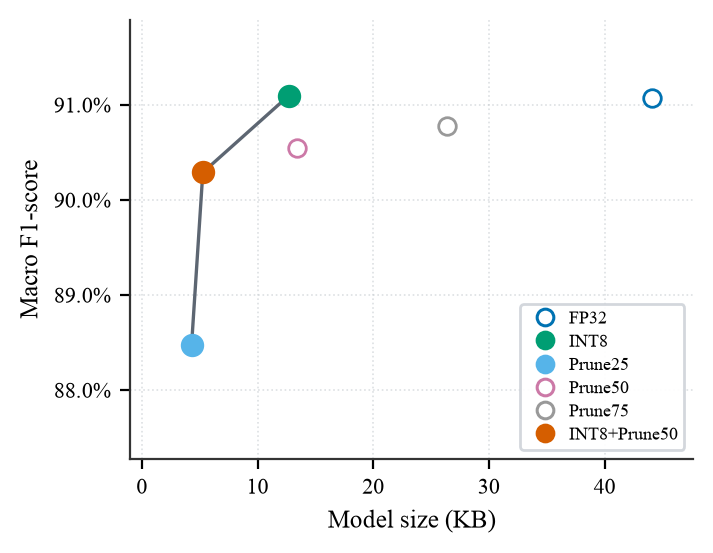
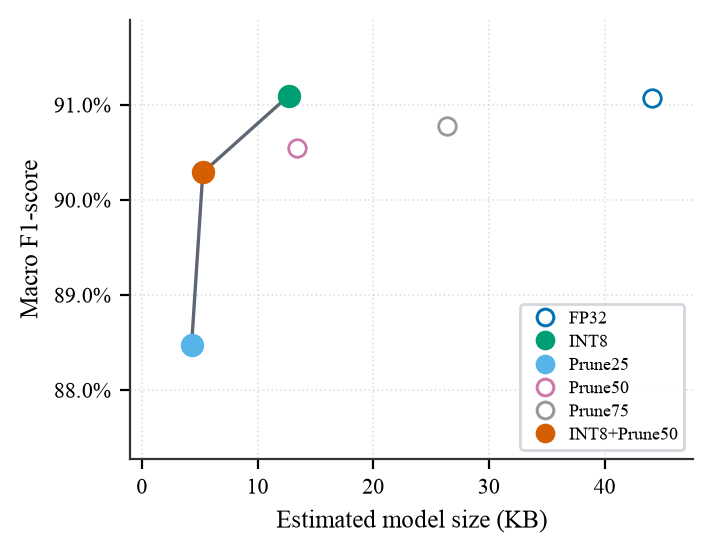
Fix broken $\pm$ macro, reconcile estimated vs. measured model sizes, and tighten stats reporting.
The $\pm$ formatting bug in export_kfold_compression_tex.py (single unmatched $ per
value) made paper/main.tex fail to compile with a fatal "Missing $ inserted" error;
paper/main.pdf was stale relative to the tracked .tex sources. Also reconciles the
PyTorch-side estimated payload sizes (Table II, Fig. 2) against the measured TFLite
footprint (Table IV) wherever both are cited, fixes a self-contradictory real-time
latency claim in Sec. IV-E, clarifies that Prune25/50/75 names denote % channels
retained (Prune25 is most aggressive), and documents Holm-Bonferroni correction and
the N=15 Wilcoxon p-floor in Limitations (no reported conclusion changes).

Changed region(s): [[0.3703, 0.9222, 0.7714, 0.953]]

diff --git a/paper/main.tex b/paper/main.tex
@@ -312,7 +312,9 @@ post-training quantization.
 convolutional blocks; the top-$k$ channels are retained and removed elsewhere in the stem and
 classification head. The pruned model is fine-tuned on \emph{training subjects only} (Adam,
 learning rate $10^{-4}$, class-balanced loss) before re-evaluation. Primary k-fold configs sweep
-25\%, 50\%, and 75\% channel retention (Prune25/50/75) with a default 5-epoch fine-tune budget;
+25\%, 50\%, and 75\% channel retention (Prune25/50/75; Prune25 \emph{retains} 25\% and is thus
+the most aggressive setting, Prune75 the mildest) with a
+default 5-epoch fine-tune budget;
 Table~\ref{tab:finetune-ablation} reports the same protocol at $N{=}15$.
 
 \textbf{Extended compression grid (k-fold).} Beyond FP32/INT8 and Prune25/50/75, combined
@@ -406,21 +408,23 @@ are at most 0.03~pp (PSw: $82.75\%$ vs.\ $82.72\%$), confirming that 8-bit weigh
 sufficient for this TCN under the PyTorch QDQ proxy.
 
 \textbf{Pruning severity trades size for accuracy in a monotonic pattern.}
-Prune25 (${\sim}4.3$~KB) reduces macro F1 by 3.25~pp ($87.62\%\pm1.45\%$, $p{<}0.001$), with the
-largest phase-specific loss in LR ($-$6.98~pp) and PSw ($-$3.75~pp).
-Prune50 (${\sim}13.1$~KB) costs 1.47~pp ($89.40\%\pm1.43\%$, $p{<}0.001$).
-Prune75 (${\sim}26.4$~KB) costs 0.70~pp ($90.17\%\pm1.30\%$, $p{<}0.001$).
+Prune25 (${\sim}4.3$~KB estimated payload) reduces macro F1 by 3.25~pp ($87.62\%\pm1.45\%$,
+$p{<}0.001$), with the largest phase-specific loss in LR ($-$6.98~pp) and PSw ($-$3.75~pp).
+Prune50 (${\sim}13.1$~KB estimated payload) costs 1.47~pp ($89.40\%\pm1.43\%$, $p{<}0.001$).
+Prune75 (${\sim}26.4$~KB estimated payload) costs 0.70~pp ($90.17\%\pm1.30\%$, $p{<}0.001$).
 All pruned configs remain significantly below FP32 at $\alpha{=}0.05$, but the effect size shrinks
 as more channels are retained.
 
 \textbf{Combined INT8+Prune50 minimizes size at a measurable accuracy cost.}
-INT8+Prune50 (${\sim}5.3$~KB, smallest ESP32-deployable point) achieves
-$89.33\%\pm1.36\%$ macro F1 ($-$1.54~pp, $p{=}1.2{\times}10^{-4}$), with PSw F1 falling to
-$80.93\%\pm2.00\%$ ($-$1.79~pp).
+INT8+Prune50 achieves $89.33\%\pm1.36\%$ macro F1 ($-$1.54~pp, $p{=}1.2{\times}10^{-4}$), with PSw
+F1 falling to $80.93\%\pm2.00\%$ ($-$1.79~pp). Its estimated payload is ${\sim}5.3$~KB
+(measured TFLite: 13.4~KB, Table~\ref{tab:esp32}; the ${\sim}8$~KB gap is fixed TFLite
+graph overhead common to every config)---still the smallest of the four deployed configs.
 
-Fig.~\ref{fig:pareto} and the preceding table summarize the extended grid; among non-dominated
-configurations, INT8 offers the best accuracy--size trade-off, while INT8+Prune50 targets minimum
-memory when a ${\sim}1.5$~pp macro F1 reduction is acceptable.
+Fig.~\ref{fig:pareto} (estimated payload; see Table~\ref{tab:esp32} for measured TFLite sizes)
+and the preceding table summarize the extended grid. Among non-dominated configurations, INT8
+offers the best accuracy--size trade-off, while INT8+Prune50 targets minimum memory when a
+${\sim}1.5$~pp macro F1 reduction is acceptable.
 
 \subsection{Fine-Tuning Schedule Ablation}
 
@@ -448,11 +452,13 @@ smallest footprint at the largest accuracy cost.
 \begin{figure}[!t]
   \centering
   \includegraphics[width=\linewidth]{figures/pareto_front.pdf}
-  \caption{Illustrative Pareto front (fold~0, seed~42; six compression configs).
+  \caption{Illustrative Pareto front (fold~0, seed~42; six compression configs). Horizontal axis
+  is \emph{estimated} payload size, not the measured TFLite footprint (Table~\ref{tab:esp32}).
   K-fold aggregates with Wilcoxon tests appear in Table~\ref{tab:kfold-compression}.
   Frontier: Prune25 $\rightarrow$ INT8+Prune50 $\rightarrow$ INT8;
   Prune50/Prune75/FP32 are dominated at this checkpoint. INT8 and Prune50 share ${\sim}13$~KB
-  but differ by 0.55~pp macro F1 (labels dodged for visibility).}
+  estimated payload but differ by 0.55~pp macro F1 (labels dodged for visibility). Prune25
+  \emph{retains} only 25\% of channels (most aggressive); Prune75 is mildest.}
   \label{fig:pareto}
 \end{figure}
 
@@ -474,12 +480,12 @@ Table~\ref{tab:esp32} reports on-device latency for four TFLite exports derived 
 seed~42 compression checkpoints. Benchmarks replay one fixed normalized $(50,12)$ window in a tight
 loop ($N{=}1000$ trials after 20 warmup invocations) without live IMU or BLE I/O.
 
-INT8+Prune50 is the only configuration that meets a strict real-time budget for per-window inference
-($75.7$~ms mean vs.\ a 500~ms window). Full-width INT8 and float Prune50 remain within the window
-($\approx$280 and 253~ms) but offer no latency advantage over INT8+Prune50 despite similar or larger
-TFLite sizes. FP32 exceeds the window ($856$~ms) and requires a 160~KB tensor arena, reducing minimum
-free heap to 116~KB vs.\ 156~KB for the 120~KB-arena configs. Reported heap reflects remaining dynamic
-SRAM after reserving a fixed arena; model weights are stored in flash.
+Three of the four configurations meet the 500~ms per-window budget: INT8+Prune50 ($75.7$~ms,
+${\sim}425$~ms headroom), Prune50 ($253$~ms), and full-width INT8 ($279.8$~ms); only FP32 exceeds
+it ($856$~ms). INT8+Prune50 is fastest by a wide margin (3.7$\times$ faster than full-width INT8)
+despite similar or larger TFLite sizes for the other two. FP32 additionally requires a 160~KB
+tensor arena, reducing minimum free heap to 116~KB vs.\ 156~KB for the 120~KB-arena configs
+(remaining dynamic SRAM after reserving the arena; weights are stored in flash).
 
 \input{tables/esp32_placeholder}
 
@@ -518,10 +524,12 @@ affected.
 \subsection{Efficiency-Accuracy Trade-off}
 
 The k-fold Pareto analysis (Table~\ref{tab:kfold-compression} and Fig.~\ref{fig:pareto})
-identifies INT8 (${\sim}13.0$~KB, $+0.01$~pp macro F1, $p{=}0.30$) as the preferred
-near-lossless compression point for ESP32-C3 deployment. INT8+Prune50 (${\sim}5.3$~KB) trades
+identifies INT8 (${\sim}13.0$~KB estimated payload, $+0.01$~pp macro F1, $p{=}0.30$) as the
+preferred near-lossless compression point for ESP32-C3 deployment. INT8+Prune50
+(${\sim}5.3$~KB estimated payload; 13.4~KB measured TFLite, Table~\ref{tab:esp32}) trades
 1.54~pp macro F1 ($p{=}1.2{\times}10^{-4}$) for minimum memory. Prune75 offers a middle ground
-(${\sim}26.4$~KB, $-$0.70~pp) when pruning without quantization is desired. Deployment latency
+(${\sim}26.4$~KB estimated payload, $-$0.70~pp) when pruning without quantization is desired.
+Deployment latency
 must be paired with these accuracy/size \emph{and} latency trade-offs. Table~\ref{tab:esp32} shows
 that INT8+Prune50 is the Pareto-optimal deployable point on ESP32-C3 (13.4~KB TFLite, 75.7~ms
 latency, 156~KB minimum free heap). Full-width INT8 preserves accuracy but runs 3.7$\times$
@@ -539,7 +547,11 @@ stride-1 sliding-window inference at 100~Hz was not evaluated.
         end-to-end latency with live IMU/BLE streaming remains unmeasured.
   \item Test stride~1 yields highly overlapping windows; per-subject blocked aggregation mitigates
         inflated effective sample size, but Wilcoxon tests operate on fold$\times$seed aggregates
-        ($N{=}15$) rather than subject-blocked scores.
+        ($N{=}15$) rather than subject-blocked scores. These pairs are also not fully independent
+        (three seeds share the same five fold splits), and $N{=}15$ bounds the smallest attainable
+        signed-rank $p$ at $6.10\times10^{-5}$, attained simultaneously by several configs of
+        differing effect size. Holm--Bonferroni correction within each table does not change any
+        significance conclusion reported here.
   \item PyTorch INT8 evaluation uses a quantize-dequantize weight proxy; deployed INT8 TFLite models
         use full-integer PTQ and may differ slightly in logits while preserving argmax in smoke
         tests.
@@ -561,9 +573,9 @@ epochs: $-$1.47~pp, $p{<}0.001$; Prune75: $-$0.70~pp, $p{<}0.001$). Fine-tune sc
 revealed that 0.94~pp of the Prune50 deficit is recoverable with longer training (50 epochs:
 $90.34\%\pm1.11\%$, $p{=}0.015$ vs.\ FP32), implicating insufficient recovery budget---not pruning
 alone---as a contributor to early results; a residual 0.53~pp gap nonetheless persists. PSw F1 was
-the most compression-sensitive transition phase. INT8+Prune50 (${\sim}5.3$~KB) offers minimum
-memory at a 1.54~pp cost ($p{=}1.2{\times}10^{-4}$), with on-device ESP32-C3 latency of 75.7~ms
-per 0.5~s window. Future work will validate live IMU streaming, measure power, and extend
+the most compression-sensitive transition phase. INT8+Prune50 (13.4~KB measured TFLite footprint)
+offers minimum memory at a 1.54~pp cost ($p{=}1.2{\times}10^{-4}$), with on-device ESP32-C3
+latency of 75.7~ms per 0.5~s window. Future work will validate live IMU streaming, measure power, and extend
 evaluation to additional cohorts.
 
 % Acknowledgment omitted for double-anonymous review.

diff --git a/paper/tables/kfold_compression.tex b/paper/tables/kfold_compression.tex
@@ -11,15 +11,15 @@
     \toprule
     \textbf{Config} & \textbf{Macro F1} & \textbf{PSw F1} & \textbf{Wilcoxon $p$ vs.\ FP32} \\
     \midrule
-    FP32 & 90.87\,$\pm\,1.47 & 82.72\,$\pm\,2.54 & --- \\
-    INT8 & 90.88\,$\pm\,1.47 & 82.75\,$\pm\,2.54 & 0.303 \\
-    Prune25 & 87.62\,$\pm\,1.45 & 78.97\,$\pm\,1.28 & 6.10e-05 \\
-    Prune50 & 89.40\,$\pm\,1.43 & 81.13\,$\pm\,1.97 & 6.10e-05 \\
-    Prune75 & 90.17\,$\pm\,1.30 & 81.90\,$\pm\,2.18 & 6.10e-05 \\
-    INT8+Prune50 & 89.33\,$\pm\,1.36 & 80.93\,$\pm\,2.00 & 1.22e-04 \\
+    FP32 & 90.87\,$\pm$\,1.47 & 82.72\,$\pm$\,2.54 & --- \\
+    INT8 & 90.88\,$\pm$\,1.47 & 82.75\,$\pm$\,2.54 & 0.303 \\
+    Prune25 & 87.62\,$\pm$\,1.45 & 78.97\,$\pm$\,1.28 & 6.10e-05 \\
+    Prune50 & 89.40\,$\pm$\,1.43 & 81.13\,$\pm$\,1.97 & 6.10e-05 \\
+    Prune75 & 90.17\,$\pm$\,1.30 & 81.90\,$\pm$\,2.18 & 6.10e-05 \\
+    INT8+Prune50 & 89.33\,$\pm$\,1.36 & 80.93\,$\pm$\,2.00 & 1.22e-04 \\
     \bottomrule
   \end{tabular}
 
   \vspace{0.5em}
-  {\scriptsize Paired Wilcoxon signed-rank tests on matched fold$\times$seed pairs ($N{=}15$) vs.\ FP32. All configs complete (120/120 jobs).}
+  {\scriptsize Paired Wilcoxon signed-rank tests on matched fold$\times$seed pairs ($N{=}15$) vs.\ FP32. All configs complete (120/120 jobs). $p{=}6.10\mathrm{e}{-05}$ is the $N{=}15$ Wilcoxon floor (see Limitations). Config names denote \% channels retained; Prune25 is most aggressive, Prune75 mildest.}
 \end{table}

diff --git a/paper/tables/ablation_pareto.tex b/paper/tables/ablation_pareto.tex
@@ -10,11 +10,11 @@
     \toprule
     \textbf{Config} & \textbf{Params} & \textbf{KB} & \textbf{Macro F1} & \textbf{PSw F1} \\
     \midrule
-    INT8 & 11,300 & 13.0 & 90.88\,$\pm\,1.47 & 82.75\,$\pm\,2.54 \\
-    Prune25 & 1,100 & 4.3 & 87.62\,$\pm\,1.45 & 78.97\,$\pm\,1.28 \\
-    Prune50 & 3,348 & 13.1 & 89.40\,$\pm\,1.43 & 81.13\,$\pm\,1.97 \\
-    Prune75 & 6,748 & 26.4 & 90.17\,$\pm\,1.30 & 81.90\,$\pm\,2.18 \\
-    INT8+Prune50 & 3,348 & 5.3 & 89.33\,$\pm\,1.36 & 80.93\,$\pm\,2.00 \\
+    INT8 & 11,300 & 13.0 & 90.88\,$\pm$\,1.47 & 82.75\,$\pm$\,2.54 \\
+    Prune25 & 1,100 & 4.3 & 87.62\,$\pm$\,1.45 & 78.97\,$\pm$\,1.28 \\
+    Prune50 & 3,348 & 13.1 & 89.40\,$\pm$\,1.43 & 81.13\,$\pm$\,1.97 \\
+    Prune75 & 6,748 & 26.4 & 90.17\,$\pm$\,1.30 & 81.90\,$\pm$\,2.18 \\
+    INT8+Prune50 & 3,348 & 5.3 & 89.33\,$\pm$\,1.36 & 80.93\,$\pm$\,2.00 \\
     \bottomrule
   \end{tabular}
 \end{table}

diff --git a/analysis/export_kfold_compression_tex.py b/analysis/export_kfold_compression_tex.py
@@ -50,7 +50,7 @@ def fmt_mean_std(entry: dict | None, *, n_complete: int) -> str:
         return f"--- ({n_complete}/{EXPECTED_RUNS})"
     if std is None or math.isnan(std):
         return f"{mean * 100:.2f}"
-    return f"{mean * 100:.2f}\\,$\\pm\\,{std * 100:.2f}"
+    return f"{mean * 100:.2f}\\,$\\pm$\\,{std * 100:.2f}"
 
 
 def fmt_wilcoxon(entry: dict | None, *, n_complete: int) -> str:
@@ -124,7 +124,10 @@ def write_kfold_compression_table(
     if total_jobs >= TOTAL_JOBS:
         lines.append(
             f"  {{\\scriptsize Paired Wilcoxon signed-rank tests on matched fold$\\times$seed pairs "
-            f"($N{{=}}15$) vs.\\ FP32. All configs complete ({total_jobs}/{TOTAL_JOBS} jobs).}}"
+            f"($N{{=}}15$) vs.\\ FP32. All configs complete ({total_jobs}/{TOTAL_JOBS} jobs). "
+            f"$p{{=}}6.10\\mathrm{{e}}{{-05}}$ is the $N{{=}}15$ Wilcoxon floor (see Limitations). "
+            f"Config names denote \\% channels retained; Prune25 is most aggressive, Prune75 "
+            f"mildest.}}"
         )
     else:
         lines.append(

diff --git a/paper/tables/ablation_finetune.tex b/paper/tables/ablation_finetune.tex
@@ -10,9 +10,9 @@
     \toprule
     \textbf{Config} & \textbf{FT ep.} & \textbf{Macro F1} & \textbf{$\Delta$ vs.\ FP32} & \textbf{PSw F1} & \textbf{$p$} \\
     \midrule
-    Prune50 & 5 & 89.40\,$\pm\,1.43 & -1.47 & 81.13\,$\pm\,1.97 & 6.10e-05 \\
-    Prune50 (15 ep) & 15 & 89.83\,$\pm\,1.54 & -1.04 & 81.29\,$\pm\,2.79 & 6.10e-04 \\
-    Prune50 (50 ep) & 50 & 90.34\,$\pm\,1.11 & -0.53 & 82.23\,$\pm\,1.82 & 0.015 \\
+    Prune50 & 5 & 89.40\,$\pm$\,1.43 & -1.47 & 81.13\,$\pm$\,1.97 & 6.10e-05 \\
+    Prune50 (15 ep) & 15 & 89.83\,$\pm$\,1.54 & -1.04 & 81.29\,$\pm$\,2.79 & 6.10e-04 \\
+    Prune50 (50 ep) & 50 & 90.34\,$\pm$\,1.11 & -0.53 & 82.23\,$\pm$\,1.82 & 0.015 \\
     \bottomrule
   \end{tabular}
 \end{table}

diff --git a/analysis/plot_pareto.py b/analysis/plot_pareto.py
@@ -112,7 +112,7 @@ def plot_pareto(
     x_vals = [display_x(pt) for pt in measured]
     x_max = max(pt["size_kb"] for pt in measured)
     ax.set_xlim(-1.0, x_max * 1.08)
-    ax.set_xlabel("Model size (KB)")
+    ax.set_xlabel("Estimated model size (KB)")
     ax.set_ylabel("Macro F1-score")
 
     ax.legend(